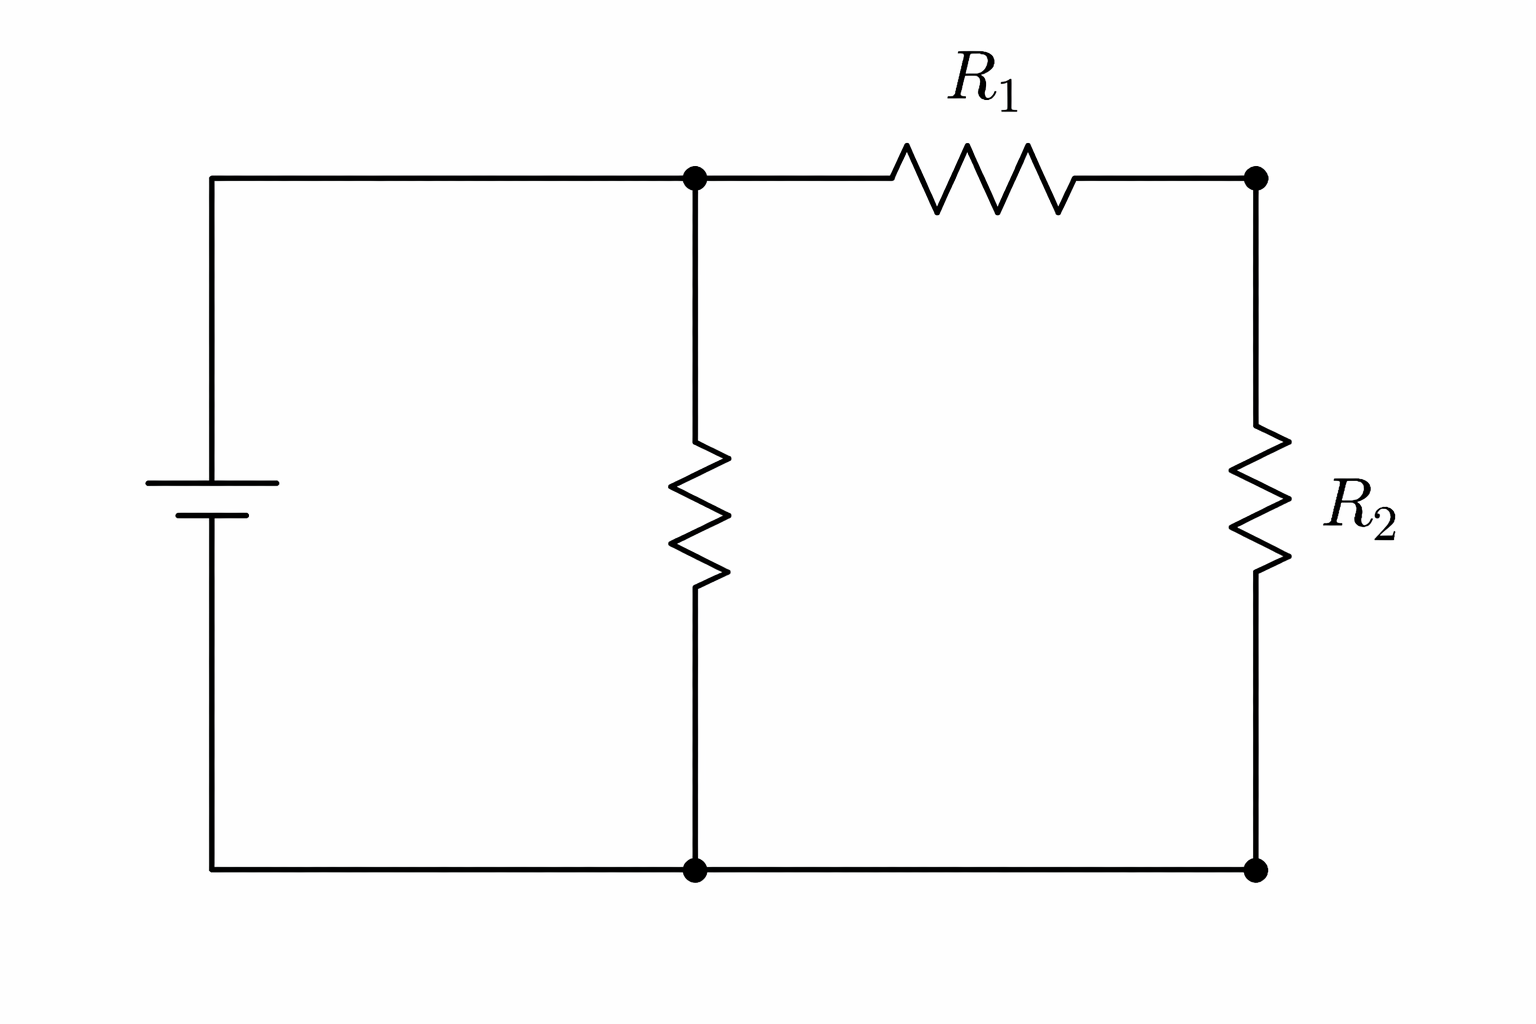
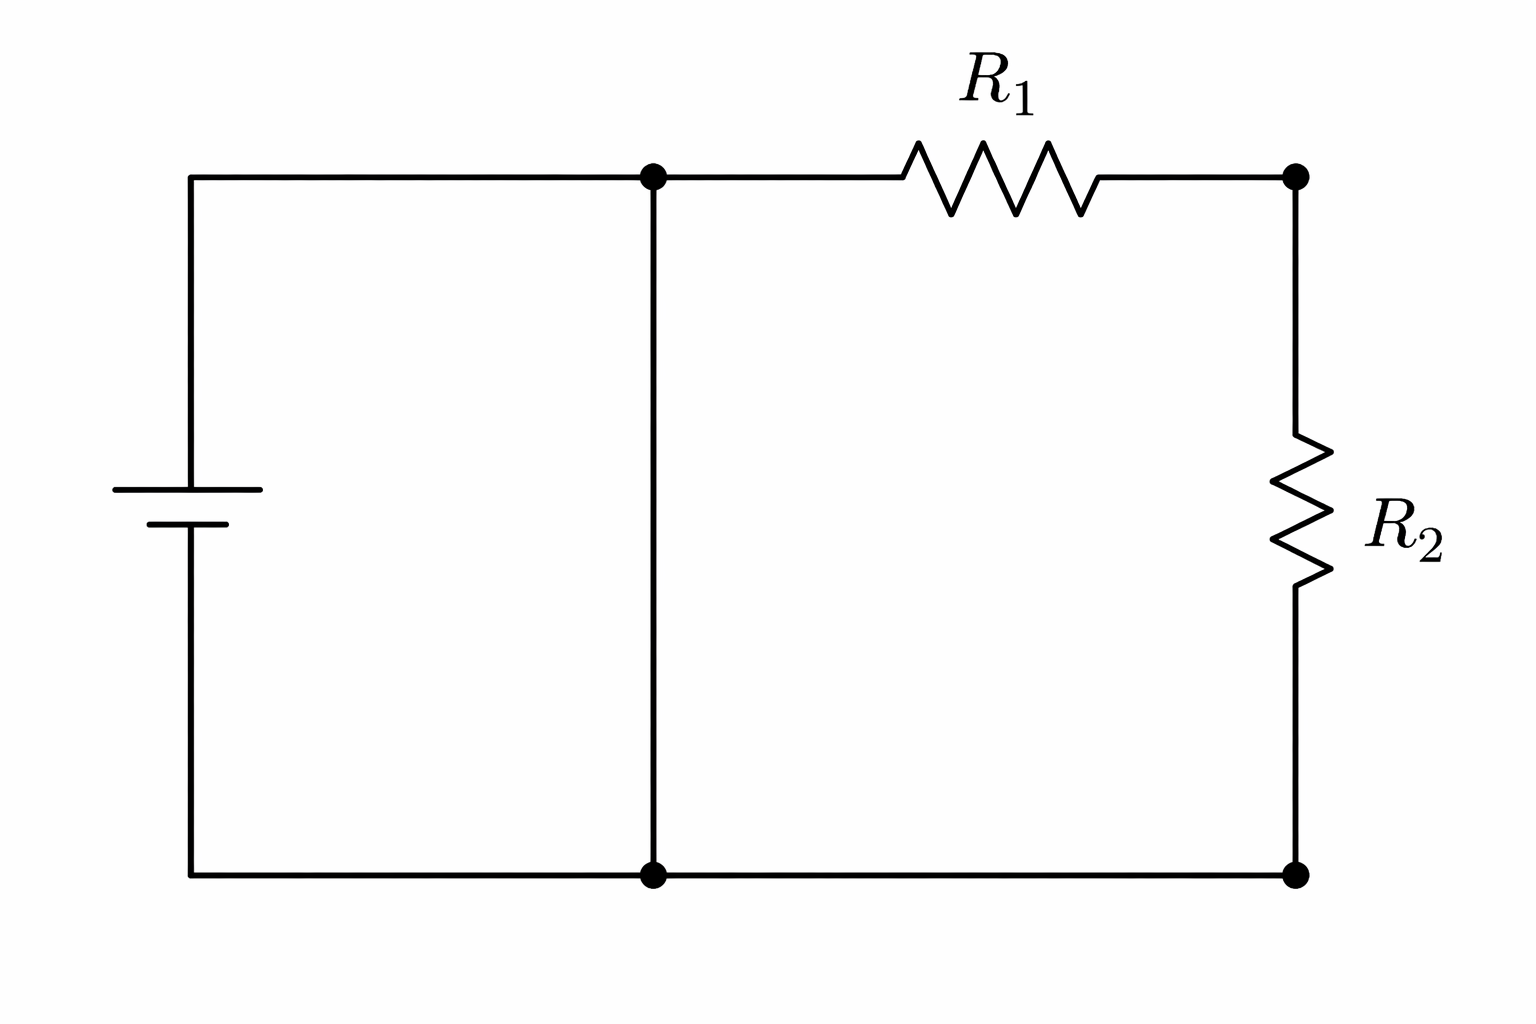
LE niveau 1 de la résistance équivalente !

Changed region(s): [[0.0625, 0.1562, 0.9375, 0.875], [0.5625, 0.0312, 0.7188, 0.2188]]

diff --git a/Niveau/Resistance_equivalente/re_1.py b/Niveau/Resistance_equivalente/re_1.py
@@ -2,7 +2,7 @@ from PySide6.QtCore import Qt
 from PySide6.QtGui import QFont, QPixmap
 from PySide6.QtWidgets import (
     QWidget, QVBoxLayout, QHBoxLayout, QLabel,
-    QPushButton, QMessageBox, QScrollArea
+    QPushButton, QMessageBox, QScrollArea, QRadioButton, QButtonGroup
 )
 
 
@@ -13,43 +13,44 @@ class ChoixCircuit(QWidget):
         self.choix = None
 
         layout = QHBoxLayout()
+        layout.setSpacing(25)
+        layout.setAlignment(Qt.AlignCenter)
         self.setLayout(layout)
 
-        self.btn_serie = QPushButton("Série")
-        self.btn_parallele = QPushButton("Parallèle")
-        self.btn_mixte = QPushButton("Série + Parallèle")
+        self.btn_serie = QRadioButton("Série")
+        self.btn_parallele = QRadioButton("Parallèle")
+        self.btn_mixte = QRadioButton("Mixte")
 
-        self.btn_serie.clicked.connect(self.select_serie)
-        self.btn_parallele.clicked.connect(self.select_parallele)
-        self.btn_mixte.clicked.connect(self.select_mixte)
+        self.groupe = QButtonGroup(self)
+        self.groupe.addButton(self.btn_serie)
+        self.groupe.addButton(self.btn_parallele)
+        self.groupe.addButton(self.btn_mixte)
+        self.groupe.setExclusive(True)
+
+        self.btn_serie.toggled.connect(self.mettre_a_jour_choix)
+        self.btn_parallele.toggled.connect(self.mettre_a_jour_choix)
+        self.btn_mixte.toggled.connect(self.mettre_a_jour_choix)
+
+        self.btn_serie.setFont(QFont("", 14))
+        self.btn_parallele.setFont(QFont("", 14))
+        self.btn_mixte.setFont(QFont("", 14))
 
         layout.addWidget(self.btn_serie)
         layout.addWidget(self.btn_parallele)
         layout.addWidget(self.btn_mixte)
 
-    def reset_styles(self):
-        self.btn_serie.setStyleSheet("")
-        self.btn_parallele.setStyleSheet("")
-        self.btn_mixte.setStyleSheet("")
-
-    def select_serie(self):
-        self.choix = "serie"
-        self.reset_styles()
-        self.btn_serie.setStyleSheet("border: 2px solid yellow;")
-
-    def select_parallele(self):
-        self.choix = "parallele"
-        self.reset_styles()
-        self.btn_parallele.setStyleSheet("border: 2px solid yellow;")
-
-    def select_mixte(self):
-        self.choix = "mixte"
-        self.reset_styles()
-        self.btn_mixte.setStyleSheet("border: 2px solid yellow;")
+    def mettre_a_jour_choix(self):
+        if self.btn_serie.isChecked():
+            self.choix = "série"
+        elif self.btn_parallele.isChecked():
+            self.choix = "parallèle"
+        elif self.btn_mixte.isChecked():
+            self.choix = "mixte"
+        else:
+            self.choix = None
 
     def get_choix(self):
         return self.choix
-
 
 class NiveauRE1(QWidget):
     def __init__(self, retour_callback=None):
@@ -59,12 +60,12 @@ class NiveauRE1(QWidget):
         self.questions_widgets = []
 
         self.questions = [
-            ("images/niveau/Résistance équivalente/1/RE-circuit1.png", "serie"),
-            ("images/niveau/Résistance équivalente/1/RE-circuit2.png", "serie"),
-            ("images/niveau/Résistance équivalente/1/RE-circuit3.png", "mixte"),
-            ("images/niveau/Résistance équivalente/1/RE-circuit4.png", "mixte"),
+            ("images/niveau/Résistance équivalente/1/RE-circuit1.png", "série"),
+            ("images/niveau/Résistance équivalente/1/RE-circuit2.png", "série"),
+            ("images/niveau/Résistance équivalente/1/RE-circuit3.png", "parallèle"),
+            ("images/niveau/Résistance équivalente/1/RE-circuit4.png", "série"),
             ("images/niveau/Résistance équivalente/1/RE-circuit5.png", "mixte"),
-            ("images/niveau/Résistance équivalente/1/RE-circuit6.png", "mixte"),
+            ("images/niveau/Résistance équivalente/1/RE-circuit6.png", "série"),
         ]
 
         layout_exterieur = QVBoxLayout()
@@ -80,7 +81,7 @@ class NiveauRE1(QWidget):
         main_layout = QVBoxLayout()
         contenu.setLayout(main_layout)
 
-        titre = QLabel("Resistance_equivalente - Niveau 1")
+        titre = QLabel("Résistance équivalente - Niveau 1")
         titre.setAlignment(Qt.AlignCenter)
         police = QFont()
         police.setPointSize(28)
@@ -91,16 +92,6 @@ class NiveauRE1(QWidget):
         consigne.setAlignment(Qt.AlignCenter)
         main_layout.addWidget(consigne)
 
-        rappel = QLabel(
-            "Série : Req = R1 + R2 + ...\n"
-            "Parallèle : 1/Req = 1/R1 + 1/R2 + ...\n"
-            "Mixte : combinaison série et parallèle"
-        )
-        rappel.setAlignment(Qt.AlignCenter)
-        police_rappel = QFont()
-        police_rappel.setPointSize(16)
-        rappel.setFont(police_rappel)
-        main_layout.addWidget(rappel)
 
         for path, bonne_rep in self.questions:
             self.ajouter_question(main_layout, path, bonne_rep)

diff --git a/main.py b/main.py
@@ -271,6 +271,7 @@ class AmperePro(QMainWindow):
                 popup = Popup(callback_commencer=self.ouvrir_niveau_kirchoff_2)
             elif sujet == Sujet.Kirchoff and i == 2:
                 popup = Popup(callback_commencer=self.ouvrir_niveau_kirchoff_3)
+
             elif sujet == Sujet.Resistance and i == 0:
                 popup = Popup(callback_commencer=self.ouvrir_niveau_re_1)
             else: